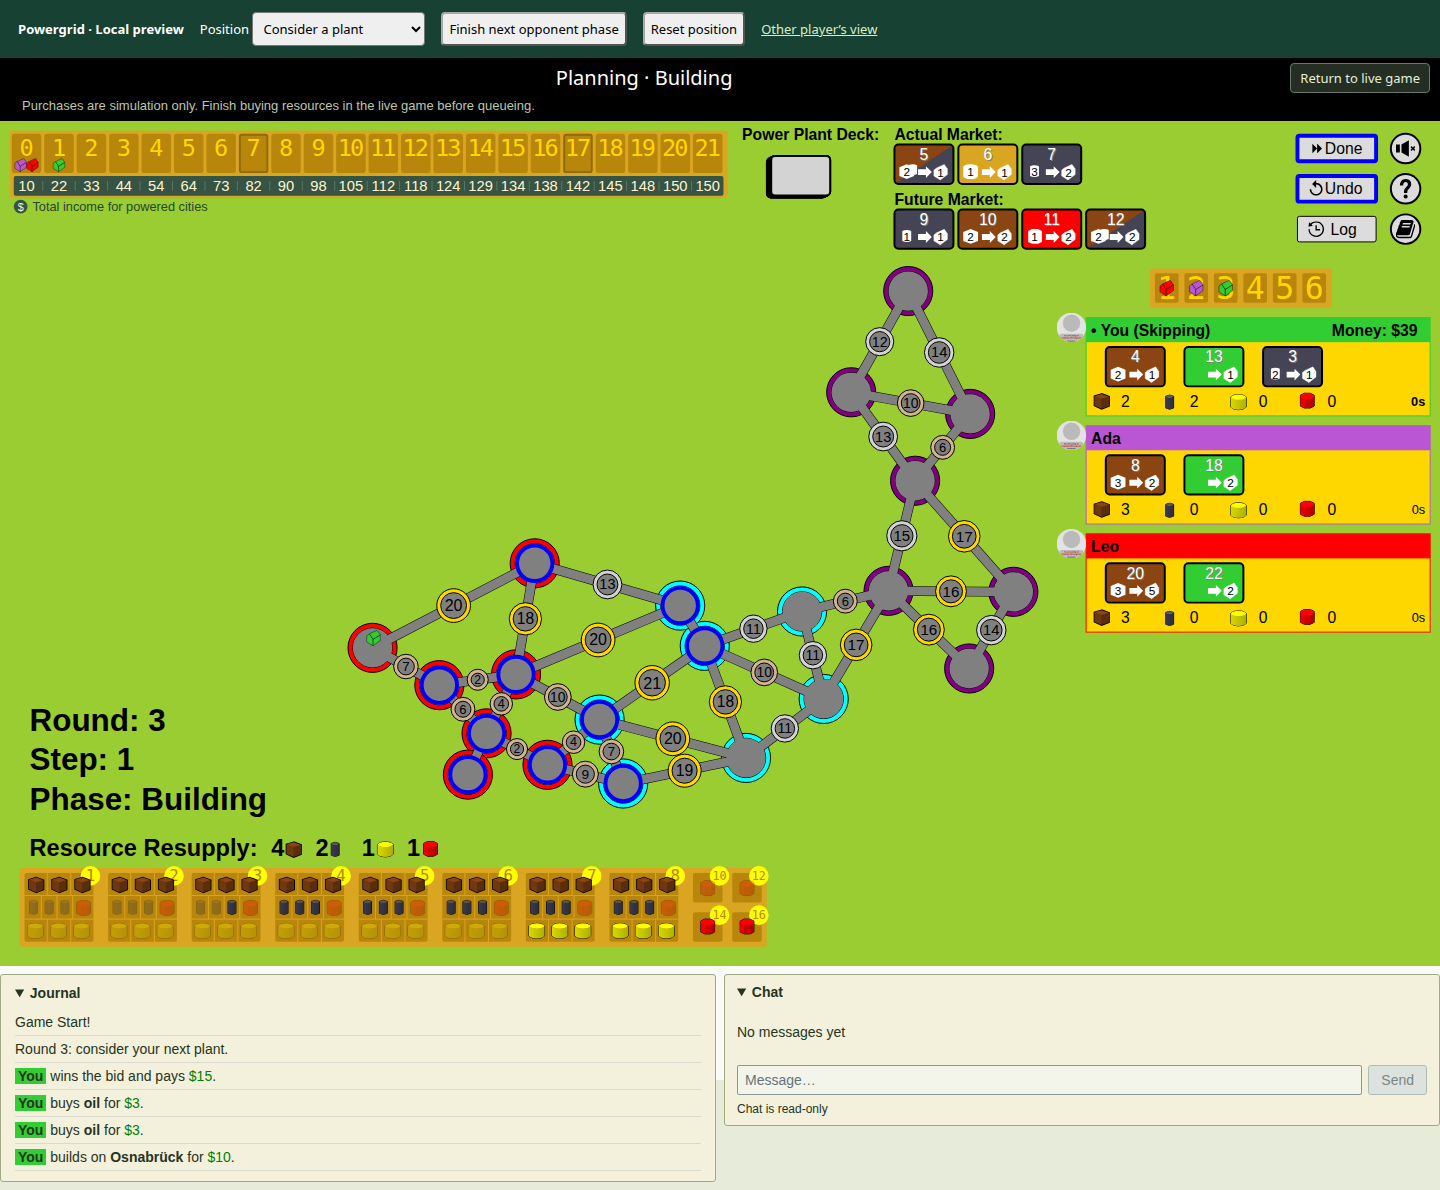
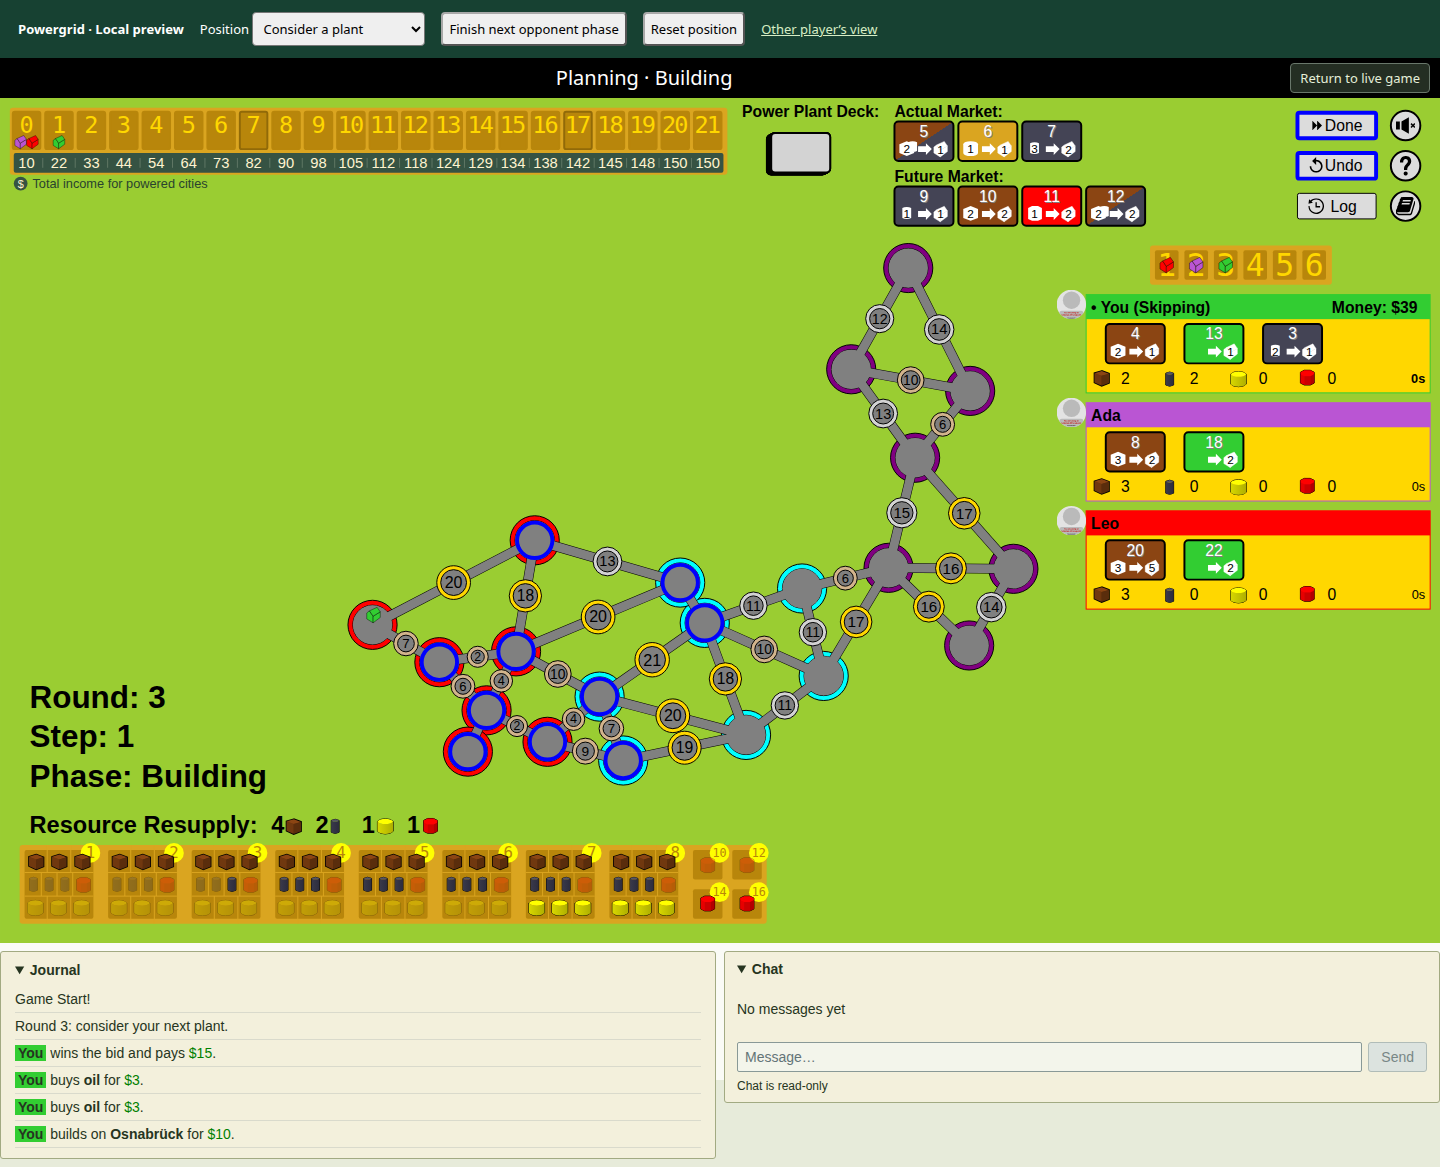
Use board Done control to skip simulated plant purchases

diff --git a/engine/src/planning.ts b/engine/src/planning.ts
@@ -31,6 +31,19 @@ export function nextPlanningPhase(G: GameState, seat: number): Phase | undefined
     return roundPhases[index];
 }
 
+function updatePlanningMoves(G: GameState, seat: number) {
+    const player = G.players[seat];
+    player.availableMoves = availableMoves(G, player);
+    // Done can simulate skipping a plant, including before mandatory round-one buying.
+    if (
+        G.phase === Phase.Auction &&
+        !player.availableMoves.DiscardPowerPlant &&
+        !player.availableMoves.DiscardResources
+    ) {
+        player.availableMoves.Pass = [true];
+    }
+}
+
 /** Only the player's own decisions are simulated. No guessed opponent moves or deck draws. */
 export function planningPhase(G: GameState, seat: number, phase: Phase): GameState {
     const previous = G.phase;
@@ -58,7 +71,7 @@ export function planningPhase(G: GameState, seat: number, phase: Phase): GameSta
         player.resourcesUsed = [];
         player.targetCitiesPowered = calculateMaxCitiesPowered(G, player);
     }
-    player.availableMoves = availableMoves(G, player);
+    updatePlanningMoves(G, seat);
     return G;
 }
 
@@ -172,15 +185,7 @@ export function planMove(previous: RoundPlan, input: Move): RoundPlan {
     }
     if (!plan.finished) {
         G.currentPlayers = [plan.seat];
-        player.availableMoves = availableMoves(G, player);
-        // Passing here explicitly means "simulate without buying a plant".
-        if (
-            G.phase === Phase.Auction &&
-            !player.availableMoves.DiscardPowerPlant &&
-            !player.availableMoves.DiscardResources
-        ) {
-            player.availableMoves.Pass = [true];
-        }
+        updatePlanningMoves(G, plan.seat);
     }
     // Normal move bookkeeping derives these from the hidden deck, absent in a viewer.
     // No draw is predicted in a plan, so keep its public deck indicator unchanged.

diff --git a/viewer/src/components/RoundPlanner.vue b/viewer/src/components/RoundPlanner.vue
@@ -2,13 +2,7 @@
     <section class="round-planner" aria-label="Round planning">
         <template v-if="plan">
             <div class="planner-strip">
-                <div
-                    v-if="queueable || hasQueue || (plan.state.phase === 'Auction' && !discarding)"
-                    class="planner-controls"
-                >
-                    <button v-if="plan.state.phase === 'Auction' && !discarding" @click="$emit('skip-plant')">
-                        Continue without buying
-                    </button>
+                <div v-if="queueable || hasQueue" class="planner-controls">
                     <button
                         v-if="queueable"
                         class="primary"
@@ -26,9 +20,6 @@
                 </div>
             </div>
             <p v-if="!queueable && queueHint" class="muted queue-hint">{{ queueHint }}</p>
-            <p v-if="plan.state.phase === 'Auction' && !discarding" class="muted">
-                Choose a plant, then use the bid control to enter an assumed winning price. No bid is sent.
-            </p>
             <p v-if="liveChanged" class="notice">
                 The live game changed. Costs and fuel will be checked again before queueing.
             </p>
@@ -60,10 +51,6 @@ export default Vue.extend({
     computed: {
         hasQueue(): boolean {
             return !!this.queue?.phases.length;
-        },
-        discarding(): boolean {
-            const moves = this.plan?.state.players[this.plan.seat].availableMoves;
-            return !!(moves?.DiscardPowerPlant || moves?.DiscardResources);
         },
     },
 });

diff --git a/viewer/src/components/Game.vue b/viewer/src/components/Game.vue
@@ -33,7 +33,6 @@
                 :pending="!!pendingPlanId"
                 :error="planningError"
                 :live-changed="planningChanged"
-                @skip-plant="sendMove({ name: 'Pass', data: true })"
                 @queue="submitRoundPlan"
                 @cancel="cancelPhasePlan"
             />
@@ -1159,8 +1158,6 @@ export default class Game extends Vue {
     get queueHint(): string {
         if (this.roundPlan && this.committedState && this.roundPlan.state.round !== this.committedState.round)
             return 'The round ended. Start a new simulation.';
-        if (this.turnMoves.length || !this.committedState || !canQueuePhases(this.committedState, this.player!, []))
-            return 'Purchases are simulation only. Finish buying resources in the live game before queueing.';
         return '';
     }
     startPlanning() {

diff --git a/engine/src/premoves.spec.ts b/engine/src/premoves.spec.ts
@@ -122,6 +122,11 @@ describe('current-round planning and premoves', () => {
         expect(skipped.state.phase).to.equal(Phase.Resources);
         expect(skipped.state.players[0].money).to.equal(70);
         expect(() => planMove(selected, { name: MoveName.Bid, data: 71 })).to.throw('affordable');
+        const opening = setup(3, { map: 'Germany', variant: 'original' }, 'skip-plant');
+        expect(availableMoves(opening, opening.players[0]).Pass).to.equal(undefined);
+        const openingPlan = startRoundPlan(opening, 0);
+        expect(openingPlan.state.players[0].availableMoves!.Pass).to.deep.equal([true]);
+        expect(planMove(openingPlan, pass).state.phase).to.equal(Phase.Resources);
     });
     it('queues privately off turn, executes each phase, and credits increments only when executed', async () => {
         const G = position(),
